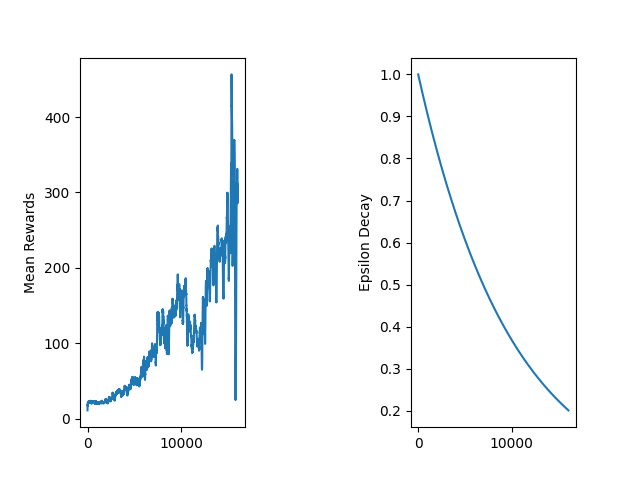
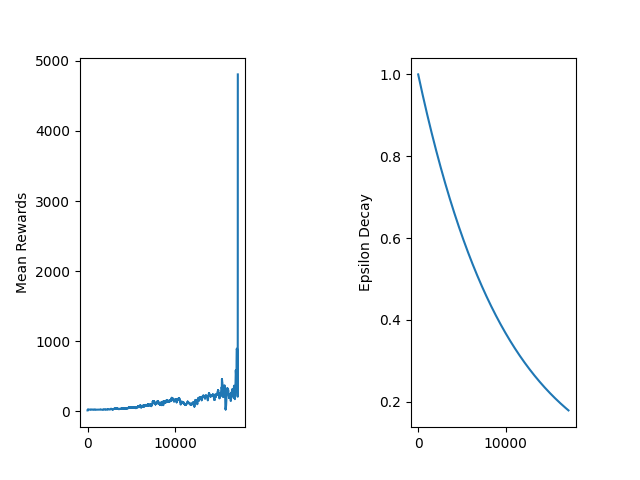
implement double dqn

diff --git a/dqn-experiments/agent.py b/dqn-experiments/agent.py
@@ -47,6 +47,7 @@ class Agent:
             self.stop_on_reward = self.hyperparams['stop_on_reward'] # stop training when the reward reaches this value
             self.fc1_nodes = self.hyperparams['fc1_nodes']
             self.env_make_params = self.hyperparams.get('env_make_params', {})
+            self.enable_double_dqn = self.hyperparams.get('enable_double_dqn', False)
             
             self.loss_fn = nn.MSELoss() # loss function (mean squared error)
             self.optimizer = None
@@ -90,6 +91,7 @@ class Agent:
             
             best_reward = -float('inf')
         else:
+            print(f"Loading model from {self.MODEL_FILE}")
             policy_net.load_state_dict(torch.load(self.MODEL_FILE))
             policy_net.eval()
         
@@ -223,8 +225,13 @@ class Agent:
         dones = torch.tensor(dones).float().to(device)
         
         with torch.no_grad():
-            # calculate target q values (expected future rewards)
-            target_q = rewards + (1-dones) * self.discount_factor_g * target_net(new_states).max(dim=1)[0]
+            if self.enable_double_dqn:
+                best_action_from_policy = policy_net(new_states).argmax(dim=1)
+                target_q = rewards + (1-dones) * self.discount_factor_g *\
+                    target_net(new_states).gather(dim=1, index=best_action_from_policy.unsqueeze(dim=1)).squeeze()
+            else:
+                # calculate target q values (expected future rewards)
+                target_q = rewards + (1-dones) * self.discount_factor_g * target_net(new_states).max(dim=1)[0]
             
         # calculate the Q value from the current policy
         current_q = policy_net(states).gather(dim=1, index=actions.unsqueeze(dim=1)).squeeze()
